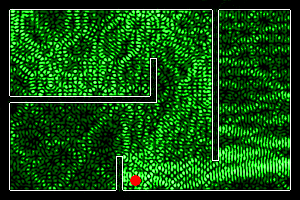
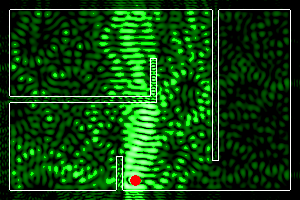
more realistic choice of resolution

diff --git a/power_map.py b/power_map.py
@@ -75,12 +75,12 @@ if __name__ == '__main__':
     parser.add_argument('-M', '--max', type=float, help='ceil value of power (in dB)', default=-75)
     parser.add_argument('-p', '--power', type=float, help='power of the source (in V/m²?)', default=1)
     parser.add_argument('-f', '--frequency', type=float, help='frequency of the wave (in GHz)', default=2.4)
-    parser.add_argument('-r', '--resolution', type=float, help='spacial resolution (in m)', default=0.02)
+    parser.add_argument('-r', '--resolution', type=float, help='spacial resolution (in m)', default=0.01)
     parser.add_argument('-w', '--wall-refractive', type=float, help='refractive index of the walls', default=2.24)
     parser.add_argument('-d', '--wall-diffusive', type=float, help='diffusive power of wall (in S/m)', default=0.1)
 
     parser.add_argument(
-        '--alayer-thickness', type=int, help='thickness of absorption layer', default=5)
+        '--alayer-thickness', type=int, help='thickness of absorption layer', default=12)
     parser.add_argument(
         '--alayer-diffusive', type=float, help='diffusive power of absorption layer (in S/m)', default=1.0)
 

diff --git a/README.md b/README.md
@@ -16,7 +16,7 @@ f = 2.400 Ghz → λ = 0.1249m → k = 50.300
 Computing ... done!
 ```
 
-and gives the following output (spacial resolution: 1px → 2cm):
+and gives the following output (spacial resolution: 1px → 1cm):
 
 ![](test_out.png)
 
